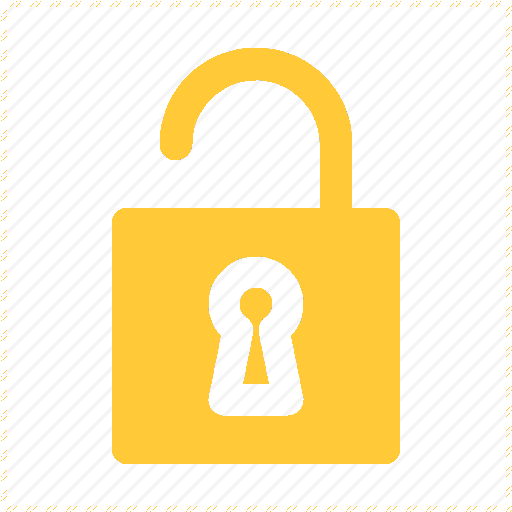
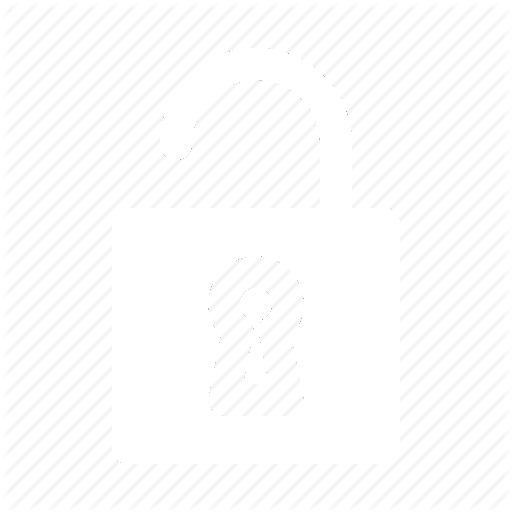
Updated

Changed region(s): [[0.2188, 0.0938, 0.7812, 0.9062], [0.4688, 0.5625, 0.5312, 0.75]]

diff --git a/Crypto.py b/Crypto.py
@@ -70,13 +70,13 @@ class Window(QMainWindow):
         self.setFixedWidth(self.width)
 
         self.CentralWidget = QWidget(self)
-        self.CentralWidget.setStyleSheet('background-color: #ffc937')
+        self.CentralWidget.setStyleSheet('background-color: #ffffff')
         self.setCentralWidget(self.CentralWidget)
 
         self.ButtonCSS = """
                             QPushButton{
                                 background-color: #005072;
-                                color: #ffc937;
+                                color: #ffffff;
                                 border-width: 1px;
                                 border-color: #1e1e1e;
                                 border-style: solid;
@@ -349,14 +349,13 @@ class Window(QMainWindow):
         BirthDateCalendar.setCalendarPopup(True)
         BirthDateCalendar.setStyleSheet(
             """
-                background-color: #ffc937;
+                background-color: #ffffff;
                 color: #005072;
                 border-width: 1px;
                 border-color: #005072;
                 border-style: solid;
                 border-radius: 10;                
             """
-
         )
         BirthDateCalendar.setAlignment(Qt.AlignVCenter | Qt.AlignLeft)
         BirthDateCalendar.setMaximumDate(datetime.datetime.now() - datetime.timedelta(days=5840))
@@ -548,7 +547,7 @@ class Window(QMainWindow):
             """
                 QPushButton{
                     background-color: #005072;
-                    color: #ffc937;
+                    color: #ffffff;
                     border-width: 1px;
                     border-color: #1e1e1e;
                     border-style: solid;
@@ -623,12 +622,12 @@ class Window(QMainWindow):
                 QListWidget::item 
                 {
                     color: #005072;
-                    background-color: #ffc937;                                                                  
+                    background-color: #ffffff;                                                                  
                 }
                 
                 QListWidget::item:selected 
                 {
-                    color: #ffc937;
+                    color: #ffffff;
                     background-color: #005072;                      
                 }
             """
@@ -670,7 +669,7 @@ class Window(QMainWindow):
         ComposeMessageDialogBox.setParent(self)
         ComposeMessageDialogBox.setWindowFlags(Qt.Window | Qt.WindowCloseButtonHint | Qt.MSWindowsFixedSizeDialogHint)
         ComposeMessageDialogBox.setFixedWidth(self.width / 2)
-        ComposeMessageDialogBox.setStyleSheet('background-color: #ffc937')
+        ComposeMessageDialogBox.setStyleSheet('background-color: #ffffff')
 
         ComposeMessageDailogLayout = QVBoxLayout(ComposeMessageDialogBox)
         ComposeMessageDailogLayout.setContentsMargins(50, 50, 50, 50)
@@ -693,7 +692,7 @@ class Window(QMainWindow):
         ImageBrowseButton.setStyleSheet(
             """
                 background-color: #005072;
-                color: #ffc937;
+                color: #ffffff;
                 border-width: 1px;
                 border-color: #1e1e1e;
                 border-style: solid;
@@ -741,7 +740,7 @@ class Window(QMainWindow):
         ComposeButtonBox.button(QDialogButtonBox.Ok).setStyleSheet(
             """
                 background-color: #005072;
-                color: #ffc937;
+                color: #ffffff;
                 border-width: 1px;
                 border-color: #1e1e1e;
                 border-style: solid;
@@ -887,7 +886,7 @@ class Window(QMainWindow):
             AccountInfoDialogBox.setParent(self)
             AccountInfoDialogBox.setWindowFlags(Qt.Window | Qt.WindowCloseButtonHint | Qt.MSWindowsFixedSizeDialogHint)
             AccountInfoDialogBox.setFixedWidth(self.width / 2)
-            AccountInfoDialogBox.setStyleSheet('background-color: #ffc937')
+            AccountInfoDialogBox.setStyleSheet('background-color: #ffffff')
 
             AccountInfoDailogLayout = QVBoxLayout(AccountInfoDialogBox)
             AccountInfoDailogLayout.setContentsMargins(50, 50, 50, 50)
@@ -1042,7 +1041,7 @@ class Window(QMainWindow):
         MessagesTable.setColumnCount(5)
         MessagesTable.setWindowFlags(MessagesTable.windowFlags() | Qt.MSWindowsFixedSizeDialogHint)
         MessagesTable.setHorizontalHeaderLabels(["Message ID", "From", "Timestamp", "View", "Delete"])
-        MessagesTable.horizontalHeader().setStyleSheet("::section {""background-color: #005072;  color: #ffc937;}")
+        MessagesTable.horizontalHeader().setStyleSheet("::section {""background-color: #005072;  color: #ffffff;}")
 
         for i in range(MessagesTable.columnCount()):
             MessagesTable.horizontalHeaderItem(i).setFont(QFont("Ariel Black", 11))
@@ -1110,9 +1109,9 @@ class Window(QMainWindow):
                 if row[3] == 0:
                     for j in range(5):
                         try:
-                            MessagesTable.item(rowList.index(row), j).setBackground(QColor(247, 223, 156))
+                            MessagesTable.item(rowList.index(row), j).setBackground(QColor(177, 221, 240))
                         except Exception as e:
-                            MessagesTable.cellWidget(rowList.index(row), j).setStyleSheet("background-color: #f7df9c")
+                            MessagesTable.cellWidget(rowList.index(row), j).setStyleSheet("background-color: #b1ddf0")
 
             MessagesTable.setEditTriggers(QAbstractItemView.NoEditTriggers)
             MessagesTable.resizeColumnsToContents()
@@ -1156,7 +1155,7 @@ class Window(QMainWindow):
                 ViewDialogBox.setParent(self)
                 ViewDialogBox.setWindowFlags(Qt.Window | Qt.WindowCloseButtonHint | Qt.MSWindowsFixedSizeDialogHint)
                 ViewDialogBox.setFixedWidth(self.width / 2)
-                ViewDialogBox.setStyleSheet('background-color: #ffc937')
+                ViewDialogBox.setStyleSheet('background-color: #ffffff')
 
                 ViewDailogLayout = QVBoxLayout(ViewDialogBox)
                 ViewDailogLayout.setContentsMargins(50, 50, 50, 50)
@@ -1224,7 +1223,7 @@ class Window(QMainWindow):
                 ViewButtonBox.button(QDialogButtonBox.Ok).setStyleSheet(
                     """
                         background-color: #005072;
-                        color: #ffc937;
+                        color: #ffffff;
                         border-width: 1px;
                         border-color: #1e1e1e;
                         border-style: solid;
@@ -1293,7 +1292,7 @@ class Window(QMainWindow):
         MessagesTable.setColumnCount(5)
         MessagesTable.setWindowFlags(MessagesTable.windowFlags() | Qt.MSWindowsFixedSizeDialogHint)
         MessagesTable.setHorizontalHeaderLabels(["Message ID", "To", "Timestamp", "View", "Delete"])
-        MessagesTable.horizontalHeader().setStyleSheet("::section {""background-color: #005072;  color: #ffc937;}")
+        MessagesTable.horizontalHeader().setStyleSheet("::section {""background-color: #005072;  color: #ffffff;}")
 
         for i in range(MessagesTable.columnCount()):
             MessagesTable.horizontalHeaderItem(i).setFont(QFont("Ariel Black", 11))
@@ -1397,7 +1396,7 @@ class Window(QMainWindow):
                 ViewDialogBox.setParent(self)
                 ViewDialogBox.setWindowFlags(Qt.Window | Qt.WindowCloseButtonHint | Qt.MSWindowsFixedSizeDialogHint)
                 ViewDialogBox.setFixedWidth(self.width / 2)
-                ViewDialogBox.setStyleSheet('background-color: #ffc937')
+                ViewDialogBox.setStyleSheet('background-color: #ffffff')
 
                 ViewDailogLayout = QVBoxLayout(ViewDialogBox)
                 ViewDailogLayout.setContentsMargins(50, 50, 50, 50)
@@ -1466,7 +1465,7 @@ class Window(QMainWindow):
                 ViewButtonBox.button(QDialogButtonBox.Ok).setStyleSheet(
                     """
                         background-color: #005072;
-                        color: #ffc937;
+                        color: #ffffff;
                         border-width: 1px;
                         border-color: #1e1e1e;
                         border-style: solid;
@@ -1605,7 +1604,7 @@ if __name__ == "__main__":
             
             QMessageBox
             {
-                background-color: #ffc937;
+                background-color: #ffffff;
                 color: #005072;
             }
             
@@ -1702,7 +1701,7 @@ if __name__ == "__main__":
             
             QScrollBar:horizontal {
                  border: 1px solid #222222;
-                 background: QLinearGradient( x1: 0, y1: 0, x2: 0, y2: 1, stop: 0.0 #ffc937, stop: 0.2 #ffc937, stop: 1 #ffc937);
+                 background: QLinearGradient( x1: 0, y1: 0, x2: 0, y2: 1, stop: 0.0 #ffffff, stop: 0.2 #ffffff, stop: 1 #ffffff);
                  height: 7px;
                  margin: 0px 16px 0 16px;
             }
@@ -1747,7 +1746,7 @@ if __name__ == "__main__":
             
             QScrollBar:vertical
             {
-                  background: QLinearGradient( x1: 0, y1: 0, x2: 1, y2: 0, stop: 0.0 #ffc937, stop: 0.2 #ffc937, stop: 1 #ffc937);
+                  background: QLinearGradient( x1: 0, y1: 0, x2: 1, y2: 0, stop: 0.0 #ffffff, stop: 0.2 #ffffff, stop: 1 #ffffff);
                   width: 7px;
                   margin: 16px 0 16px 0;
                   border: 1px solid #222222;
@@ -1901,7 +1900,7 @@ if __name__ == "__main__":
             
             QRadioButton::indicator:checked, QRadioButton::indicator:unchecked{
                 color: #b1b1b1;
-                background-color: #ffc937;
+                background-color: #ffffff;
                 border: 1px solid #b1b1b1;
                 border-radius: 6px;
             }
@@ -1913,7 +1912,7 @@ if __name__ == "__main__":
                     fx: 0.5, fy: 0.5,
                     radius: 1.0,
                     stop: 0.25 #323232,
-                    stop: 0.3 #ffc937
+                    stop: 0.3 #ffffff
                 );
             }
             
